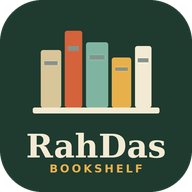
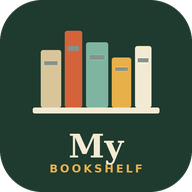
Add files via upload

Changed region(s): [[0.125, 0.6875, 0.875, 0.875]]

diff --git a/index.html b/index.html
@@ -54,6 +54,10 @@
     .head-row { display:flex; align-items:center; justify-content:space-between; gap:12px; position:relative; z-index:1 }
     .brand { font:700 21px var(--serif); letter-spacing:.2px }
     .greet { font-size:13px; color:#d5e4db; margin-top:3px }
+    .cnt { display:flex; align-items:flex-start; gap:8px; font-size:13px; color:var(--ink); margin:2px 0 10px; line-height:1.35 }
+    .cnt input { width:auto; margin-top:2px; flex:none }
+    .cnt small { display:block; color:var(--muted); font-size:11.5px }
+    .shimg { width:54px; height:68px; object-fit:cover; border-radius:4px; border:3px solid #a9791f; margin-right:10px }
     .byline { font-size:11px; letter-spacing:.6px; color:#cdb77a; margin:1px 0 0 45px; opacity:.9 }
     .ring-btn {
       background:rgba(255,255,255,.14); border:0; border-radius:16px; padding:7px 12px;
@@ -508,7 +512,7 @@
 <header>
   <div class="head-row">
     <div>
[1 lines of base64/hex data omitted]
+      <div class="brand"><canvas class="logo" id="logoCv" width="108" height="108" aria-hidden="true"></canvas><span id="brandName">My Bookshelf</span></div>
       <div class="byline">designed by RahDas</div>
       <div class="greet" id="greet">A little world between the pages.</div>
     </div>
@@ -720,6 +724,21 @@
         <button class="btn danger" onclick="disconnectApp()">Disconnect</button>
       </div>
     </div>
+    <h3>Your shelf</h3>
+    <div class="panel">
+      <p class="muted" style="margin-top:0">Your name shows on the home page: type <b>Rahdas</b> and it reads “Rahdas Bookshelf”. Leave it empty for “My Bookshelf”. The photo goes into the picture frame on the wall of your shelf. Saved to your Sheet, so it is the same on every device.</p>
+      <label class="lbl">Your name</label>
+      <input id="shName" type="text" maxlength="20" placeholder="e.g. Rahdas" oninput="shDirty=true;shPreview()">
+      <div class="meta" id="shPrev" style="margin:4px 0 10px"></div>
+      <label class="lbl">Photo for the frame</label>
+      <div class="row" style="align-items:center;flex-wrap:wrap;margin-bottom:8px">
+        <img id="shImg" class="shimg" alt="" hidden>
+        <label class="btn light" for="shFile" style="margin:0 8px 0 0">Choose photo</label>
+        <input type="file" id="shFile" accept="image/*" hidden onchange="shPick(this)">
+        <button class="btn light" type="button" id="shRm" onclick="shRemove()" hidden>Remove photo</button>
+      </div>
+      <button class="btn" type="button" onclick="saveShelf(this)">Save</button>
+    </div>
     <h3>Reading targets</h3>
     <div class="panel">
       <p class="muted" style="margin-top:0">Tick a target to show it on the home page; untick to hide it. The reminder email and the home page use these numbers to tell you how many pages to read today.</p>
@@ -848,6 +867,7 @@
         <div class="field" style="flex:1"><label>Total pages</label><input id="totalPages" type="number" inputmode="numeric" min="0"></div>
         <div class="field" style="flex:1"><label>Pages read</label><input id="pagesRead" type="number" inputmode="numeric" min="0"></div>
       </div>
+      <label class="cnt"><input type="checkbox" id="countToday"><span>Count added pages as read today<small>Tick only if you really read them today. Leave it off when you are correcting or filling in older books.</small></span></label>
       <div class="row">
         <div class="field" style="flex:1"><label>Language</label><input id="language" list="dlLanguage"></div>
         <div class="field" style="flex:1"><label>Genre</label><input id="genre" list="dlGenre"></div>
@@ -1104,6 +1124,7 @@
         <div style="flex:1"><label class="lbl">Pages read</label><input id="quPages" type="number" inputmode="numeric" min="0"></div>
         <div style="flex:1"><label class="lbl">Total pages</label><input id="quTotal" type="number" inputmode="numeric" min="0"></div>
       </div>
+      <label class="cnt"><input type="checkbox" id="quCount"><span>Count added pages as read today<small>Off = just correcting the page number (does not change this week, this month or your streak).</small></span></label>
       <div class="meta" id="quHint"></div>
       <div class="savebar"><button type="submit" class="btn" id="quSave">Save</button><button type="button" class="btn light" onclick="quickFull()">✎ Full edit</button></div>
     </form>
@@ -1274,7 +1295,7 @@ function saveConnect() {
 }
 function disconnectApp() {
   if (!confirm('Disconnect this device? Your sheet is not changed; you will need the URL and key to connect again.')) return;
-  lsDel('rb_api_url'); lsDel('rb_api_key'); lsDel('rb_cache');
+  lsDel('rb_api_url'); lsDel('rb_api_key'); lsDel('rb_cache'); lsDel('rb_shelf_name'); lsDel('rb_frame');
   data = { books: [], journal: [], goal: 12, log: [], today: data.today }; render(); showConnect();
 }
 var deferredInstall = null;
@@ -1375,7 +1396,8 @@ function peekHTML(b) {
     '<label class="pk-f">Pages read' + (Number(b.totalPages) ? ' / ' + b.totalPages : '') + '<input id="pkPg" type="number" min="0" inputmode="numeric" value="' + (Number(b.pagesRead) || 0) + '"></label>' +
     '<label class="pk-f">On the home table<select id="pkTb"><option value=""' + (tableModeOf(b) === '' ? ' selected' : '') + '>No – in the cupboard</option><option value="now"' + (tableModeOf(b) === 'now' ? ' selected' : '') + '>Reading now</option><option value="next"' + (tableModeOf(b) === 'next' ? ' selected' : '') + '>Up next</option></select></label>' +
     '<button type="button" class="btn sm" onclick="peekQuickSave(this)">Update</button></div>' +
-    '<div class="meta" style="margin-top:6px">Quick update: change the status or type the page you reached, then tap Update. Pages you add are written to today’s reading log.</div></div>';
+    '<label class="cnt" style="margin-top:8px"><input type="checkbox" id="pkCount"' + (isReadingSt(b) ? ' checked' : '') + '><span>Count added pages as read today</span></label>' +
+    '<div class="meta" style="margin-top:6px">Quick update: change the status or type the page you reached, then tap Update. Tick “Count added pages as read today” only for pages you read today; they then count towards this week, this month and your streak.</div></div>';
   return h + '</div>';
 }
 
@@ -1483,6 +1505,81 @@ function renderTargets() {
   }
   el.innerHTML = (h ? '<div class="tgrow">' + h + '</div>' : '') + nudge;
 }
+/* ===== your shelf: name + frame photo ===== */
+var frameImg = null, frameSrc = '', shDirty = false, shDraftImg = null;
+function shelfName() {
+  var n = (data && data.ui && data.ui.shelfName != null) ? data.ui.shelfName : (loaded ? '' : lsGet('rb_shelf_name'));
+  return String(n || '').trim();
+}
+function shelfTitle() { var n = shelfName(); return n ? n.charAt(0).toUpperCase() + n.slice(1) + ' Bookshelf' : 'My Bookshelf'; }
+function drawLogo() {
+  var cv = $('logoCv'); if (!cv) return;
+  var S = cv.width, x = cv.getContext('2d'), n = shelfName(), word = n ? n.charAt(0).toUpperCase() + n.slice(1) : 'My';
+  x.clearRect(0, 0, S, S);
+  x.fillStyle = '#1f3a2f'; x.beginPath(); x.moveTo(S * .22, 0); x.arcTo(S, 0, S, S, S * .22); x.arcTo(S, S, 0, S, S * .22); x.arcTo(0, S, 0, 0, S * .22); x.arcTo(0, 0, S, 0, S * .22); x.fill();
+  var bks = [[.105, .30, '#d9c59a'], [.09, .40, '#d4623a'], [.115, .34, '#7fb5a0'], [.10, .26, '#e7b04a'], [.085, .32, '#f3ead3']], gap = .02, base = .52;
+  var px = (1 - (bks.reduce(function (a, b) { return a + b[0]; }, 0) + gap * 4)) / 2;
+  bks.forEach(function (b) { x.fillStyle = b[2]; x.fillRect(S * px, S * (base - b[1]), S * b[0], S * b[1]); px += b[0] + gap; });
+  x.fillStyle = '#f3ead3'; x.fillRect(S * .17, S * base, S * .66, S * .03);
+  var fs = S * .2; x.fillStyle = '#f3ead3'; x.textAlign = 'center'; x.textBaseline = 'alphabetic';
+  do { x.font = '700 ' + fs + 'px Georgia, "Times New Roman", serif'; fs -= 2; } while (x.measureText(word).width > S * .8 && fs > 8);
+  x.fillText(word, S / 2, S * .79);
+  x.fillStyle = '#e7b04a'; x.font = '700 ' + S * .075 + 'px sans-serif';
+  if ('letterSpacing' in x) x.letterSpacing = (S * .012) + 'px';
+  x.fillText('BOOKSHELF', S / 2, S * .92);
+  if ('letterSpacing' in x) x.letterSpacing = '0px';
+}
+function paintBrand() {
+  var t = shelfTitle(), b = $('brandName'); if (b) b.textContent = t;
+  document.title = t; drawLogo();
+}
+function redrawRoom() { roomState.drawn = false; try { renderRoom(); } catch (e) {} }
+function setFrame(src) {
+  if (!src) { frameImg = null; redrawRoom(); return; }
+  var im = new Image(); im.onload = function () { frameImg = im; redrawRoom(); }; im.src = src;
+}
+function syncShelfLook() {
+  var src = (data.ui && data.ui.frameImg) || '';
+  if (loaded) { lsSet('rb_shelf_name', shelfName()); if (src !== frameSrc) { frameSrc = src; lsSet('rb_frame', src); setFrame(src); } }
+  paintBrand();
+}
+function shPreview() { var n = $('shName').value.trim(); $('shPrev').textContent = 'Shows as: ' + (n ? n.charAt(0).toUpperCase() + n.slice(1) + ' Bookshelf' : 'My Bookshelf'); }
+function renderShelfSettings() {
+  if (!$('shName') || shDirty) return;
+  $('shName').value = shelfName(); shDraftImg = null;
+  var src = (data.ui && data.ui.frameImg) || '';
+  $('shImg').hidden = !src; if (src) $('shImg').src = src; $('shRm').hidden = !src;
+  shPreview();
+}
+function shPick(inp) {
+  var f = inp.files && inp.files[0]; if (!f) return;
+  var rd = new FileReader();
+  rd.onload = function () {
+    var im = new Image();
+    im.onload = function () {
+      var W = 150, H = 190, c = document.createElement('canvas'); c.width = W; c.height = H;
+      var g = c.getContext('2d'), sc = Math.max(W / im.width, H / im.height), w = im.width * sc, h = im.height * sc;
+      g.drawImage(im, (W - w) / 2, (H - h) / 2, w, h);
+      var q = .8, u = c.toDataURL('image/jpeg', q);
+      while (u.length > 14000 && q > .3) { q -= .1; u = c.toDataURL('image/jpeg', q); }
+      shDraftImg = u; shDirty = true; $('shImg').src = u; $('shImg').hidden = false; $('shRm').hidden = false;
+    };
+    im.onerror = function () { toast('Could not read that photo', true); };
+    im.src = rd.result;
+  };
+  rd.readAsDataURL(f); inp.value = '';
+}
+function shRemove() { shDraftImg = ''; shDirty = true; $('shImg').hidden = true; $('shRm').hidden = true; }
+function saveShelf(btn) {
+  if (!data.ui) data.ui = {};
+  data.ui.shelfName = $('shName').value.trim();
+  if (shDraftImg !== null) { if (shDraftImg) data.ui.frameImg = shDraftImg; else delete data.ui.frameImg; }
+  var ui = {}; Object.keys(data.ui).forEach(function (k) { if (k !== 'tableManual') ui[k] = data.ui[k]; });
+  busy(btn, true);
+  gs('saveUiSettings', ui).then(function () {
+    busy(btn, false); shDirty = false; shDraftImg = null; toast('Saved ✓'); syncShelfLook(); renderShelfSettings();
+  }).catch(function (err) { busy(btn, false); toast(errMsg(err), true); });
+}
 function renderTargetSettings() {
   var el = $('targetBox'); if (!el || el.contains(document.activeElement)) return;
   var c = targetCfg();
@@ -1503,7 +1600,7 @@ function saveTargets(btn) {
 }
 function peekQuickSave(btn) {
   var b = data.books.find(function (x) { return String(x.id) === String(peekId); }); if (!b) return;
-  var pl = quickPayload(b, $('pkSt').value, Math.max(0, Number($('pkPg').value) || 0), Number(b.totalPages) || 0);
+  var pl = quickPayload(b, $('pkSt').value, Math.max(0, Number($('pkPg').value) || 0), Number(b.totalPages) || 0, $('pkCount').checked);
   var tbNow = tableModeOf(b), tbSel = $('pkTb').value, term = TERMINAL.indexOf(pl.status) >= 0;
   var ids = (!term && tbSel !== tbNow) ? tableIdsWith(b.id, tbSel) : null;
   if (ids && tbSel === 'now' && !isReadingSt(pl)) pl.status = 'Currently Reading';
@@ -1606,6 +1703,8 @@ function render() {
   renderPopupSettings();
   renderTargets();
   renderTargetSettings();
+  renderShelfSettings();
+  syncShelfLook();
 
   renderChips();
   renderLibrary();
@@ -1804,6 +1903,7 @@ function editBook(id) {
   setRating(ratingNum(b));
   setFormat(b.kind === 'pdf' ? 'pdf' : 'paper', true);
   $('modalTitle').textContent = 'Edit book';
+  $('countToday').checked = isReadingSt(b);
   queueInit = tableBooks().indexOf(b) >= 0 ? (isReadingSt(b) ? 'now' : 'next') : ''; $('queueSel').value = queueInit;
   $('delBtn').style.display = '';
   paintCover();
@@ -1859,7 +1959,7 @@ function saveBook(e) {
   b.pagesRead = Number(b.pagesRead || 0);
   b.price = b.price === '' ? '' : Number(b.price);
   // Pages the user added by hand go into the reading log (streak/calendar).
-  if (editingBook) { var added = b.pagesRead - (Number(editingBook.pagesRead) || 0); if (added > 0) b.logPages = added; }
+  if (editingBook && $('countToday').checked) { var added = b.pagesRead - (Number(editingBook.pagesRead) || 0); if (added > 0) b.logPages = added; }
 
   // Keep dates and pages tidy so the yearly goal counts correctly.
   if (b.status === 'Completed') {
@@ -1915,6 +2015,7 @@ function renderHomeTables() { renderRoom(); }
 
 /* ================= reading room (home) ================= */
 var roomState = { ids: null, W: 0, drawn: false };
+try { frameSrc = lsGet('rb_frame'); if (frameSrc) { var _fi = new Image(); _fi.onload = function () { frameImg = _fi; redrawRoom(); }; _fi.src = frameSrc; } paintBrand(); } catch (e) {}
 function stLabel(x) { return x === 'DNF' ? 'DNF – not interested' : x; }
 function onTable(b) { return b.queue !== '' && b.queue != null && !isNaN(Number(b.queue)) && ['Completed', 'DNF', 'On Hold'].indexOf(b.status) < 0; }
 function isReadingSt(b) { return ['Currently Reading', 'Partially'].indexOf(b.status) >= 0; }
@@ -1980,10 +2081,16 @@ function drawRoom(cv, W, H, dpr) {
   x.fillStyle = lg(fx, fy, fx + fw, fy + fh, [[0, '#d4a640'], [.5, '#a9791f'], [1, '#d9b04c']]); x.fillRect(fx, fy, fw, fh); x.restore();
   x.fillStyle = '#f1e8d0'; x.fillRect(fx + 4, fy + 4, fw - 8, fh - 8);
   x.fillStyle = '#e4d8b8'; x.fillRect(fx + 8, fy + 8, fw - 16, fh - 16);
+  if (frameImg && frameImg.naturalWidth) {
+    var ax = fx + 8, ay = fy + 8, aw = fw - 16, ah = fh - 16, sc2 = Math.max(aw / frameImg.naturalWidth, ah / frameImg.naturalHeight), dw = frameImg.naturalWidth * sc2, dh = frameImg.naturalHeight * sc2;
+    x.save(); x.beginPath(); x.rect(ax, ay, aw, ah); x.clip(); x.drawImage(frameImg, ax + (aw - dw) / 2, ay + (ah - dh) / 2, dw, dh); x.restore();
+    x.strokeStyle = 'rgba(0,0,0,.35)'; x.lineWidth = 2; x.strokeRect(ax, ay, aw, ah);
+  } else {
   x.strokeStyle = '#27382f'; x.lineWidth = 1.2; x.lineCap = 'round';
   x.beginPath(); x.moveTo(fx + fw / 2, fy + fh - 12); x.lineTo(fx + fw / 2, fy + 16); x.stroke();
   [[-1, .3], [1, .42], [-1, .56], [1, .68]].forEach(function (L) { var yy = fy + fh * L[1]; x.beginPath(); x.moveTo(fx + fw / 2, yy); x.quadraticCurveTo(fx + fw / 2 + L[0] * fw * .22, yy - 8, fx + fw / 2 + L[0] * fw * .3, yy - 16); x.stroke(); });
   x.fillStyle = '#b8472f'; x.beginPath(); x.arc(fx + fw / 2, fy + 16, 3, 0, 7); x.fill();
+  }
   // cupboard
   var cx0 = W * .17, cx1 = W * .83, cy0 = H * .035, cy1 = wallB + H * .006, cw = cx1 - cx0;
   x.save(); x.shadowColor = 'rgba(0,0,0,.65)'; x.shadowBlur = 22; x.shadowOffsetX = 8; x.shadowOffsetY = 6;
@@ -2146,10 +2253,11 @@ function openQuick(id) {
   $('quStatus').value = isPlanned(b) ? 'Currently Reading' : (b.status || 'Currently Reading');
   $('quPages').value = Number(b.pagesRead) || 0;
   $('quTotal').value = Number(b.totalPages) || '';
+  $('quCount').checked = isReadingSt(b);
   $('quHint').textContent = isPlanned(b) ? 'Saving will start this book today.' : '';
   openModal('quModal');
 }
-function quickPayload(b, st, pr, tot) {
+function quickPayload(b, st, pr, tot, count) {
   if (tot && pr > tot) pr = tot;
   var typed = pr;   // only pages typed by hand go into the reading log; auto-filling a finished book does not
   if (st === 'Completed' && tot) pr = tot;
@@ -2160,12 +2268,12 @@ function quickPayload(b, st, pr, tot) {
   if (st === 'Completed') { if (!b.completedOn) pl.completedOn = t; }
   else if (b.status === 'Completed') pl.completedOn = '';
   var added = typed - (Number(b.pagesRead) || 0);
-  if (added > 0) pl.logPages = added;
+  if (added > 0 && count !== false) pl.logPages = added;
   return pl;
 }
 function quickSave(e) {
   e.preventDefault(); if (!quBook) return;
-  var pl = quickPayload(quBook, $('quStatus').value, Math.max(0, Number($('quPages').value) || 0), Math.max(0, Number($('quTotal').value) || 0));
+  var pl = quickPayload(quBook, $('quStatus').value, Math.max(0, Number($('quPages').value) || 0), Math.max(0, Number($('quTotal').value) || 0), $('quCount').checked);
   var btn = $('quSave'); busy(btn, true);
   gs('saveBook', pl).then(function () { busy(btn, false); closeModal('quModal'); toast('Updated ✓'); refresh(true); })
     .catch(function (err) { busy(btn, false); toast(errMsg(err), true); });
@@ -2592,7 +2700,7 @@ function fitLine(x, text, maxW) {
 }
 function footer(k) {
   k.x.textAlign = 'center'; k.x.fillStyle = k.T.sub; k.x.font = '600 30px ' + CARD_FONT;
-  k.x.fillText('RahDas Bookshelf', 540, 1262);
+  k.x.fillText(shelfTitle(), 540, 1262);
   k.x.fillStyle = k.T.accent; k.x.font = '700 32px ' + CARD_FONT;
   k.x.fillText('#RahDasReads', 540, 1308);
 }
@@ -3234,8 +3342,8 @@ function addCalendarReminder() {
     'BEGIN:VEVENT', 'UID:rahdas-daily-reading@bookshelf',
     'DTSTAMP:' + ymd + 'T000000Z', 'DTSTART:' + ymd + 'T' + hh + mm + '00',      // no time zone = the time on whatever phone opens it
     'DURATION:PT15M', 'RRULE:FREQ=DAILY',
-    'SUMMARY:Read your pages - RahDas Bookshelf',
-    'DESCRIPTION:Time to read. Open RahDas Bookshelf and log your pages.' + (link ? '\\n' + link : ''),
+    'SUMMARY:Read your pages - ' + shelfTitle(),
+    'DESCRIPTION:Time to read. Open ' + shelfTitle() + ' and log your pages.' + (link ? '\\n' + link : ''),
     'BEGIN:VALARM', 'ACTION:DISPLAY', 'DESCRIPTION:Time to read', 'TRIGGER:PT0M', 'END:VALARM',
     'END:VEVENT', 'END:VCALENDAR'
   ];

diff --git a/sw.js b/sw.js
@@ -1,6 +1,6 @@
 /* RahDas Bookshelf service worker. Caches the app itself and the cover pictures so the shelf opens offline.
    Data requests (POST to your script) are never cached or touched here. */
-const VERSION = 'v-5e11d4bcea';
+const VERSION = 'v-96c1c4cca5';
 const SHELL = 'shell-' + VERSION, IMGS = 'covers-v1';
 const FILES = ['./', 'index.html', 'manifest.webmanifest', 'icon-192-v2.png', 'icon-512-v2.png', 'apple-touch-icon-v2.png'];
 const MAX_IMGS = 250;
